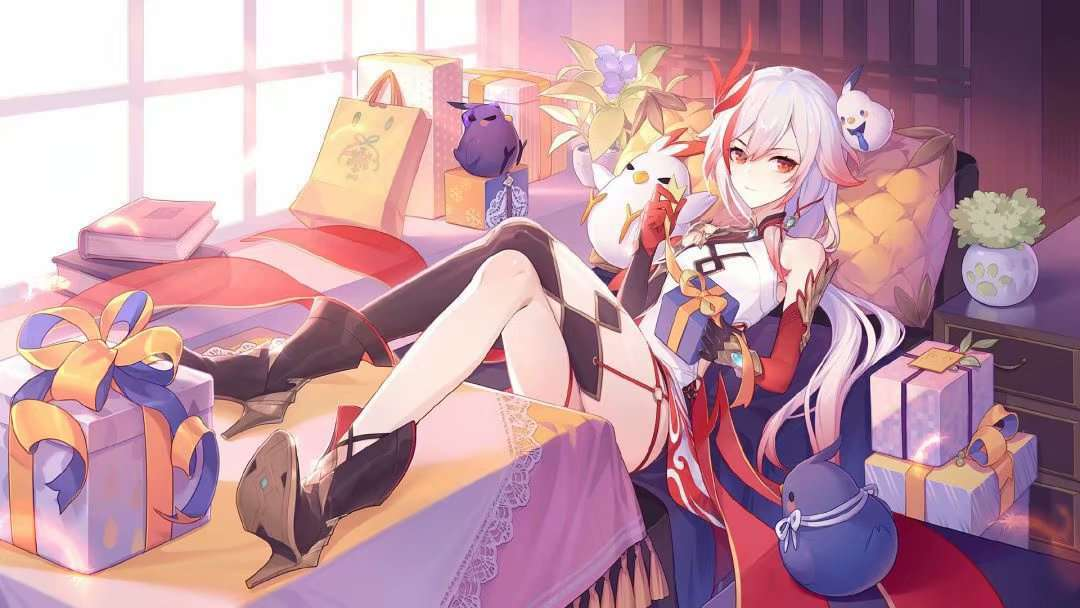
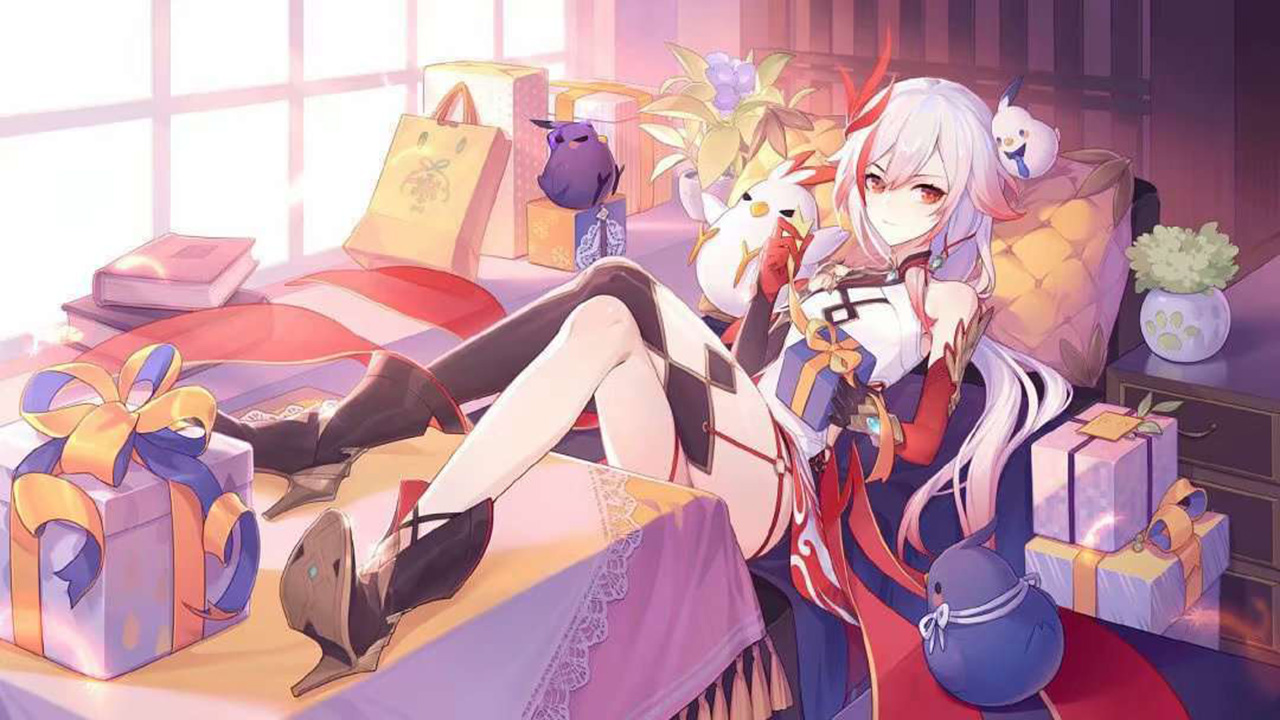
Site updated: 2020-04-21 07:34:56

diff --git a/archives/2020/04/index.html b/archives/2020/04/index.html
@@ -338,7 +338,7 @@
 
 <script>
     // 每天切换 banner 图.  Switch banner image every day.
-    $('.bg-cover').css('background-image', 'url(https://cdn.jsdelivr.net/qh/K-422/K-422.github.io/medias/banner/1.jpg)');
+    $('.bg-cover').css('background-image', 'url(https://cdn.jsdelivr.net/qh/K-422/K-422.github.io/medias/banner/2.jpg)');
 </script>
 
 
@@ -396,7 +396,7 @@
         },
         calendar: [{
             left: 'center',
-            range: ["2019-04-20", "2020-04-20"],
+            range: ["2019-04-21", "2020-04-21"],
             cellSize: [13, 13],
             splitLine: {
                 show: false
@@ -423,7 +423,7 @@
             type: 'heatmap',
             coordinateSystem: 'calendar',
             calendarIndex: 0,
-            data: [["2019-04-20", 0], ["2019-04-21", 0], ["2019-04-22", 0], ["2019-04-23", 0], ["2019-04-24", 0], ["2019-04-25", 0], ["2019-04-26", 0], ["2019-04-27", 0], ["2019-04-28", 0], ["2019-04-29", 0], ["2019-04-30", 0], ["2019-05-01", 0], ["2019-05-02", 0], ["2019-05-03", 0], ["2019-05-04", 0], ["2019-05-05", 0], ["2019-05-06", 0], ["2019-05-07", 0], ["2019-05-08", 0], ["2019-05-09", 0], ["2019-05-10", 0], ["2019-05-11", 0], ["2019-05-12", 0], ["2019-05-13", 0], ["2019-05-14", 0], ["2019-05-15", 0], ["2019-05-16", 0], ["2019-05-17", 0], ["2019-05-18", 0], ["2019-05-19", 0], ["2019-05-20", 0], ["2019-05-21", 0], ["2019-05-22", 0], ["2019-05-23", 0], ["2019-05-24", 0], ["2019-05-25", 0], ["2019-05-26", 0], ["2019-05-27", 0], ["2019-05-28", 0], ["2019-05-29", 0], ["2019-05-30", 0], ["2019-05-31", 0], ["2019-06-01", 0], ["2019-06-02", 0], ["2019-06-03", 0], ["2019-06-04", 0], ["2019-06-05", 0], ["2019-06-06", 0], ["2019-06-07", 0], ["2019-06-08", 0], ["2019-06-09", 0], ["2019-06-10", 0], ["2019-06-11", 0], ["2019-06-12", 0], ["2019-06-13", 0], ["2019-06-14", 0], ["2019-06-15", 0], ["2019-06-16", 0], ["2019-06-17", 0], ["2019-06-18", 0], ["2019-06-19", 0], ["2019-06-20", 0], ["2019-06-21", 0], ["2019-06-22", 0], ["2019-06-23", 0], ["2019-06-24", 0], ["2019-06-25", 0], ["2019-06-26", 0], ["2019-06-27", 0], ["2019-06-28", 0], ["2019-06-29", 0], ["2019-06-30", 0], ["2019-07-01", 0], ["2019-07-02", 0], ["2019-07-03", 0], ["2019-07-04", 0], ["2019-07-05", 0], ["2019-07-06", 0], ["2019-07-07", 0], ["2019-07-08", 0], ["2019-07-09", 0], ["2019-07-10", 0], ["2019-07-11", 0], ["2019-07-12", 0], ["2019-07-13", 0], ["2019-07-14", 0], ["2019-07-15", 0], ["2019-07-16", 0], ["2019-07-17", 0], ["2019-07-18", 0], ["2019-07-19", 0], ["2019-07-20", 0], ["2019-07-21", 0], ["2019-07-22", 0], ["2019-07-23", 0], ["2019-07-24", 0], ["2019-07-25", 0], ["2019-07-26", 0], ["2019-07-27", 0], ["2019-07-28", 0], ["2019-07-29", 0], ["2019-07-30", 0], ["2019-07-31", 0], ["2019-08-01", 0], ["2019-08-02", 0], ["2019-08-03", 0], ["2019-08-04", 0], ["2019-08-05", 0], ["2019-08-06", 0], ["2019-08-07", 0], ["2019-08-08", 0], ["2019-08-09", 0], ["2019-08-10", 0], ["2019-08-11", 0], ["2019-08-12", 0], ["2019-08-13", 0], ["2019-08-14", 0], ["2019-08-15", 0], ["2019-08-16", 0], ["2019-08-17", 0], ["2019-08-18", 0], ["2019-08-19", 0], ["2019-08-20", 0], ["2019-08-21", 0], ["2019-08-22", 0], ["2019-08-23", 0], ["2019-08-24", 0], ["2019-08-25", 0], ["2019-08-26", 0], ["2019-08-27", 0], ["2019-08-28", 0], ["2019-08-29", 0], ["2019-08-30", 0], ["2019-08-31", 0], ["2019-09-01", 0], ["2019-09-02", 0], ["2019-09-03", 0], ["2019-09-04", 0], ["2019-09-05", 0], ["2019-09-06", 0], ["2019-09-07", 0], ["2019-09-08", 0], ["2019-09-09", 0], ["2019-09-10", 0], ["2019-09-11", 0], ["2019-09-12", 0], ["2019-09-13", 0], ["2019-09-14", 0], ["2019-09-15", 0], ["2019-09-16", 0], ["2019-09-17", 0], ["2019-09-18", 0], ["2019-09-19", 0], ["2019-09-20", 0], ["2019-09-21", 0], ["2019-09-22", 0], ["2019-09-23", 0], ["2019-09-24", 0], ["2019-09-25", 0], ["2019-09-26", 0], ["2019-09-27", 0], ["2019-09-28", 0], ["2019-09-29", 0], ["2019-09-30", 0], ["2019-10-01", 0], ["2019-10-02", 0], ["2019-10-03", 0], ["2019-10-04", 0], ["2019-10-05", 0], ["2019-10-06", 0], ["2019-10-07", 0], ["2019-10-08", 0], ["2019-10-09", 0], ["2019-10-10", 0], ["2019-10-11", 0], ["2019-10-12", 0], ["2019-10-13", 0], ["2019-10-14", 0], ["2019-10-15", 0], ["2019-10-16", 0], ["2019-10-17", 0], ["2019-10-18", 0], ["2019-10-19", 0], ["2019-10-20", 0], ["2019-10-21", 0], ["2019-10-22", 0], ["2019-10-23", 0], ["2019-10-24", 0], ["2019-10-25", 0], ["2019-10-26", 0], ["2019-10-27", 0], ["2019-10-28", 0], ["2019-10-29", 0], ["2019-10-30", 0], ["2019-10-31", 0], ["2019-11-01", 0], ["2019-11-02", 0], ["2019-11-03", 0], ["2019-11-04", 0], ["2019-11-05", 0], ["2019-11-06", 0], ["2019-11-07", 0], ["2019-11-08", 0], ["2019-11-09", 0], ["2019-11-10", 0], ["2019-11-11", 0], ["2019-11-12", 0], ["2019-11-13", 0], ["2019-11-14", 0], ["2019-11-15", 0], ["2019-11-16", 0], ["2019-11-17", 0], ["2019-11-18", 0], ["2019-11-19", 0], ["2019-11-20", 0], ["2019-11-21", 0], ["2019-11-22", 0], ["2019-11-23", 0], ["2019-11-24", 0], ["2019-11-25", 0], ["2019-11-26", 0], ["2019-11-27", 0], ["2019-11-28", 0], ["2019-11-29", 0], ["2019-11-30", 0], ["2019-12-01", 0], ["2019-12-02", 0], ["2019-12-03", 0], ["2019-12-04", 0], ["2019-12-05", 0], ["2019-12-06", 0], ["2019-12-07", 0], ["2019-12-08", 0], ["2019-12-09", 0], ["2019-12-10", 0], ["2019-12-11", 0], ["2019-12-12", 0], ["2019-12-13", 0], ["2019-12-14", 0], ["2019-12-15", 0], ["2019-12-16", 0], ["2019-12-17", 0], ["2019-12-18", 0], ["2019-12-19", 0], ["2019-12-20", 0], ["2019-12-21", 0], ["2019-12-22", 0], ["2019-12-23", 0], ["2019-12-24", 0], ["2019-12-25", 0], ["2019-12-26", 0], ["2019-12-27", 0], ["2019-12-28", 0], ["2019-12-29", 0], ["2019-12-30", 0], ["2019-12-31", 0], ["2020-01-01", 0], ["2020-01-02", 0], ["2020-01-03", 0], ["2020-01-04", 0], ["2020-01-05", 0], ["2020-01-06", 0], ["2020-01-07", 0], ["2020-01-08", 0], ["2020-01-09", 0], ["2020-01-10", 0], ["2020-01-11", 0], ["2020-01-12", 0], ["2020-01-13", 0], ["2020-01-14", 0], ["2020-01-15", 0], ["2020-01-16", 0], ["2020-01-17", 0], ["2020-01-18", 0], ["2020-01-19", 0], ["2020-01-20", 0], ["2020-01-21", 0], ["2020-01-22", 0], ["2020-01-23", 0], ["2020-01-24", 0], ["2020-01-25", 0], ["2020-01-26", 0], ["2020-01-27", 0], ["2020-01-28", 0], ["2020-01-29", 0], ["2020-01-30", 0], ["2020-01-31", 0], ["2020-02-01", 0], ["2020-02-02", 0], ["2020-02-03", 0], ["2020-02-04", 0], ["2020-02-05", 0], ["2020-02-06", 0], ["2020-02-07", 0], ["2020-02-08", 0], ["2020-02-09", 0], ["2020-02-10", 0], ["2020-02-11", 0], ["2020-02-12", 0], ["2020-02-13", 0], ["2020-02-14", 0], ["2020-02-15", 0], ["2020-02-16", 0], ["2020-02-17", 0], ["2020-02-18", 0], ["2020-02-19", 0], ["2020-02-20", 0], ["2020-02-21", 0], ["2020-02-22", 0], ["2020-02-23", 0], ["2020-02-24", 0], ["2020-02-25", 0], ["2020-02-26", 0], ["2020-02-27", 0], ["2020-02-28", 0], ["2020-02-29", 0], ["2020-03-01", 0], ["2020-03-02", 0], ["2020-03-03", 0], ["2020-03-04", 0], ["2020-03-05", 0], ["2020-03-06", 0], ["2020-03-07", 0], ["2020-03-08", 0], ["2020-03-09", 0], ["2020-03-10", 0], ["2020-03-11", 0], ["2020-03-12", 0], ["2020-03-13", 0], ["2020-03-14", 0], ["2020-03-15", 0], ["2020-03-16", 0], ["2020-03-17", 0], ["2020-03-18", 0], ["2020-03-19", 0], ["2020-03-20", 0], ["2020-03-21", 0], ["2020-03-22", 0], ["2020-03-23", 0], ["2020-03-24", 0], ["2020-03-25", 0], ["2020-03-26", 0], ["2020-03-27", 0], ["2020-03-28", 0], ["2020-03-29", 0], ["2020-03-30", 0], ["2020-03-31", 0], ["2020-04-01", 0], ["2020-04-02", 0], ["2020-04-03", 0], ["2020-04-04", 0], ["2020-04-05", 0], ["2020-04-06", 0], ["2020-04-07", 0], ["2020-04-08", 0], ["2020-04-09", 0], ["2020-04-10", 0], ["2020-04-11", 0], ["2020-04-12", 0], ["2020-04-13", 0], ["2020-04-14", 0], ["2020-04-15", 0], ["2020-04-16", 0], ["2020-04-17", 0], ["2020-04-18", 0], ["2020-04-19", 0], ["2020-04-20", 1]]
+            data: [["2019-04-21", 0], ["2019-04-22", 0], ["2019-04-23", 0], ["2019-04-24", 0], ["2019-04-25", 0], ["2019-04-26", 0], ["2019-04-27", 0], ["2019-04-28", 0], ["2019-04-29", 0], ["2019-04-30", 0], ["2019-05-01", 0], ["2019-05-02", 0], ["2019-05-03", 0], ["2019-05-04", 0], ["2019-05-05", 0], ["2019-05-06", 0], ["2019-05-07", 0], ["2019-05-08", 0], ["2019-05-09", 0], ["2019-05-10", 0], ["2019-05-11", 0], ["2019-05-12", 0], ["2019-05-13", 0], ["2019-05-14", 0], ["2019-05-15", 0], ["2019-05-16", 0], ["2019-05-17", 0], ["2019-05-18", 0], ["2019-05-19", 0], ["2019-05-20", 0], ["2019-05-21", 0], ["2019-05-22", 0], ["2019-05-23", 0], ["2019-05-24", 0], ["2019-05-25", 0], ["2019-05-26", 0], ["2019-05-27", 0], ["2019-05-28", 0], ["2019-05-29", 0], ["2019-05-30", 0], ["2019-05-31", 0], ["2019-06-01", 0], ["2019-06-02", 0], ["2019-06-03", 0], ["2019-06-04", 0], ["2019-06-05", 0], ["2019-06-06", 0], ["2019-06-07", 0], ["2019-06-08", 0], ["2019-06-09", 0], ["2019-06-10", 0], ["2019-06-11", 0], ["2019-06-12", 0], ["2019-06-13", 0], ["2019-06-14", 0], ["2019-06-15", 0], ["2019-06-16", 0], ["2019-06-17", 0], ["2019-06-18", 0], ["2019-06-19", 0], ["2019-06-20", 0], ["2019-06-21", 0], ["2019-06-22", 0], ["2019-06-23", 0], ["2019-06-24", 0], ["2019-06-25", 0], ["2019-06-26", 0], ["2019-06-27", 0], ["2019-06-28", 0], ["2019-06-29", 0], ["2019-06-30", 0], ["2019-07-01", 0], ["2019-07-02", 0], ["2019-07-03", 0], ["2019-07-04", 0], ["2019-07-05", 0], ["2019-07-06", 0], ["2019-07-07", 0], ["2019-07-08", 0], ["2019-07-09", 0], ["2019-07-10", 0], ["2019-07-11", 0], ["2019-07-12", 0], ["2019-07-13", 0], ["2019-07-14", 0], ["2019-07-15", 0], ["2019-07-16", 0], ["2019-07-17", 0], ["2019-07-18", 0], ["2019-07-19", 0], ["2019-07-20", 0], ["2019-07-21", 0], ["2019-07-22", 0], ["2019-07-23", 0], ["2019-07-24", 0], ["2019-07-25", 0], ["2019-07-26", 0], ["2019-07-27", 0], ["2019-07-28", 0], ["2019-07-29", 0], ["2019-07-30", 0], ["2019-07-31", 0], ["2019-08-01", 0], ["2019-08-02", 0], ["2019-08-03", 0], ["2019-08-04", 0], ["2019-08-05", 0], ["2019-08-06", 0], ["2019-08-07", 0], ["2019-08-08", 0], ["2019-08-09", 0], ["2019-08-10", 0], ["2019-08-11", 0], ["2019-08-12", 0], ["2019-08-13", 0], ["2019-08-14", 0], ["2019-08-15", 0], ["2019-08-16", 0], ["2019-08-17", 0], ["2019-08-18", 0], ["2019-08-19", 0], ["2019-08-20", 0], ["2019-08-21", 0], ["2019-08-22", 0], ["2019-08-23", 0], ["2019-08-24", 0], ["2019-08-25", 0], ["2019-08-26", 0], ["2019-08-27", 0], ["2019-08-28", 0], ["2019-08-29", 0], ["2019-08-30", 0], ["2019-08-31", 0], ["2019-09-01", 0], ["2019-09-02", 0], ["2019-09-03", 0], ["2019-09-04", 0], ["2019-09-05", 0], ["2019-09-06", 0], ["2019-09-07", 0], ["2019-09-08", 0], ["2019-09-09", 0], ["2019-09-10", 0], ["2019-09-11", 0], ["2019-09-12", 0], ["2019-09-13", 0], ["2019-09-14", 0], ["2019-09-15", 0], ["2019-09-16", 0], ["2019-09-17", 0], ["2019-09-18", 0], ["2019-09-19", 0], ["2019-09-20", 0], ["2019-09-21", 0], ["2019-09-22", 0], ["2019-09-23", 0], ["2019-09-24", 0], ["2019-09-25", 0], ["2019-09-26", 0], ["2019-09-27", 0], ["2019-09-28", 0], ["2019-09-29", 0], ["2019-09-30", 0], ["2019-10-01", 0], ["2019-10-02", 0], ["2019-10-03", 0], ["2019-10-04", 0], ["2019-10-05", 0], ["2019-10-06", 0], ["2019-10-07", 0], ["2019-10-08", 0], ["2019-10-09", 0], ["2019-10-10", 0], ["2019-10-11", 0], ["2019-10-12", 0], ["2019-10-13", 0], ["2019-10-14", 0], ["2019-10-15", 0], ["2019-10-16", 0], ["2019-10-17", 0], ["2019-10-18", 0], ["2019-10-19", 0], ["2019-10-20", 0], ["2019-10-21", 0], ["2019-10-22", 0], ["2019-10-23", 0], ["2019-10-24", 0], ["2019-10-25", 0], ["2019-10-26", 0], ["2019-10-27", 0], ["2019-10-28", 0], ["2019-10-29", 0], ["2019-10-30", 0], ["2019-10-31", 0], ["2019-11-01", 0], ["2019-11-02", 0], ["2019-11-03", 0], ["2019-11-04", 0], ["2019-11-05", 0], ["2019-11-06", 0], ["2019-11-07", 0], ["2019-11-08", 0], ["2019-11-09", 0], ["2019-11-10", 0], ["2019-11-11", 0], ["2019-11-12", 0], ["2019-11-13", 0], ["2019-11-14", 0], ["2019-11-15", 0], ["2019-11-16", 0], ["2019-11-17", 0], ["2019-11-18", 0], ["2019-11-19", 0], ["2019-11-20", 0], ["2019-11-21", 0], ["2019-11-22", 0], ["2019-11-23", 0], ["2019-11-24", 0], ["2019-11-25", 0], ["2019-11-26", 0], ["2019-11-27", 0], ["2019-11-28", 0], ["2019-11-29", 0], ["2019-11-30", 0], ["2019-12-01", 0], ["2019-12-02", 0], ["2019-12-03", 0], ["2019-12-04", 0], ["2019-12-05", 0], ["2019-12-06", 0], ["2019-12-07", 0], ["2019-12-08", 0], ["2019-12-09", 0], ["2019-12-10", 0], ["2019-12-11", 0], ["2019-12-12", 0], ["2019-12-13", 0], ["2019-12-14", 0], ["2019-12-15", 0], ["2019-12-16", 0], ["2019-12-17", 0], ["2019-12-18", 0], ["2019-12-19", 0], ["2019-12-20", 0], ["2019-12-21", 0], ["2019-12-22", 0], ["2019-12-23", 0], ["2019-12-24", 0], ["2019-12-25", 0], ["2019-12-26", 0], ["2019-12-27", 0], ["2019-12-28", 0], ["2019-12-29", 0], ["2019-12-30", 0], ["2019-12-31", 0], ["2020-01-01", 0], ["2020-01-02", 0], ["2020-01-03", 0], ["2020-01-04", 0], ["2020-01-05", 0], ["2020-01-06", 0], ["2020-01-07", 0], ["2020-01-08", 0], ["2020-01-09", 0], ["2020-01-10", 0], ["2020-01-11", 0], ["2020-01-12", 0], ["2020-01-13", 0], ["2020-01-14", 0], ["2020-01-15", 0], ["2020-01-16", 0], ["2020-01-17", 0], ["2020-01-18", 0], ["2020-01-19", 0], ["2020-01-20", 0], ["2020-01-21", 0], ["2020-01-22", 0], ["2020-01-23", 0], ["2020-01-24", 0], ["2020-01-25", 0], ["2020-01-26", 0], ["2020-01-27", 0], ["2020-01-28", 0], ["2020-01-29", 0], ["2020-01-30", 0], ["2020-01-31", 0], ["2020-02-01", 0], ["2020-02-02", 0], ["2020-02-03", 0], ["2020-02-04", 0], ["2020-02-05", 0], ["2020-02-06", 0], ["2020-02-07", 0], ["2020-02-08", 0], ["2020-02-09", 0], ["2020-02-10", 0], ["2020-02-11", 0], ["2020-02-12", 0], ["2020-02-13", 0], ["2020-02-14", 0], ["2020-02-15", 0], ["2020-02-16", 0], ["2020-02-17", 0], ["2020-02-18", 0], ["2020-02-19", 0], ["2020-02-20", 0], ["2020-02-21", 0], ["2020-02-22", 0], ["2020-02-23", 0], ["2020-02-24", 0], ["2020-02-25", 0], ["2020-02-26", 0], ["2020-02-27", 0], ["2020-02-28", 0], ["2020-02-29", 0], ["2020-03-01", 0], ["2020-03-02", 0], ["2020-03-03", 0], ["2020-03-04", 0], ["2020-03-05", 0], ["2020-03-06", 0], ["2020-03-07", 0], ["2020-03-08", 0], ["2020-03-09", 0], ["2020-03-10", 0], ["2020-03-11", 0], ["2020-03-12", 0], ["2020-03-13", 0], ["2020-03-14", 0], ["2020-03-15", 0], ["2020-03-16", 0], ["2020-03-17", 0], ["2020-03-18", 0], ["2020-03-19", 0], ["2020-03-20", 0], ["2020-03-21", 0], ["2020-03-22", 0], ["2020-03-23", 0], ["2020-03-24", 0], ["2020-03-25", 0], ["2020-03-26", 0], ["2020-03-27", 0], ["2020-03-28", 0], ["2020-03-29", 0], ["2020-03-30", 0], ["2020-03-31", 0], ["2020-04-01", 0], ["2020-04-02", 0], ["2020-04-03", 0], ["2020-04-04", 0], ["2020-04-05", 0], ["2020-04-06", 0], ["2020-04-07", 0], ["2020-04-08", 0], ["2020-04-09", 0], ["2020-04-10", 0], ["2020-04-11", 0], ["2020-04-12", 0], ["2020-04-13", 0], ["2020-04-14", 0], ["2020-04-15", 0], ["2020-04-16", 0], ["2020-04-17", 0], ["2020-04-18", 0], ["2020-04-19", 0], ["2020-04-20", 1], ["2020-04-21", 0]]
         }]
 
     };

diff --git a/archives/2020/index.html b/archives/2020/index.html
@@ -338,7 +338,7 @@
 
 <script>
     // 每天切换 banner 图.  Switch banner image every day.
-    $('.bg-cover').css('background-image', 'url(https://cdn.jsdelivr.net/qh/K-422/K-422.github.io/medias/banner/1.jpg)');
+    $('.bg-cover').css('background-image', 'url(https://cdn.jsdelivr.net/qh/K-422/K-422.github.io/medias/banner/2.jpg)');
 </script>
 
 
@@ -396,7 +396,7 @@
         },
         calendar: [{
             left: 'center',
-            range: ["2019-04-20", "2020-04-20"],
+            range: ["2019-04-21", "2020-04-21"],
             cellSize: [13, 13],
             splitLine: {
                 show: false
@@ -423,7 +423,7 @@
             type: 'heatmap',
             coordinateSystem: 'calendar',
             calendarIndex: 0,
-            data: [["2019-04-20", 0], ["2019-04-21", 0], ["2019-04-22", 0], ["2019-04-23", 0], ["2019-04-24", 0], ["2019-04-25", 0], ["2019-04-26", 0], ["2019-04-27", 0], ["2019-04-28", 0], ["2019-04-29", 0], ["2019-04-30", 0], ["2019-05-01", 0], ["2019-05-02", 0], ["2019-05-03", 0], ["2019-05-04", 0], ["2019-05-05", 0], ["2019-05-06", 0], ["2019-05-07", 0], ["2019-05-08", 0], ["2019-05-09", 0], ["2019-05-10", 0], ["2019-05-11", 0], ["2019-05-12", 0], ["2019-05-13", 0], ["2019-05-14", 0], ["2019-05-15", 0], ["2019-05-16", 0], ["2019-05-17", 0], ["2019-05-18", 0], ["2019-05-19", 0], ["2019-05-20", 0], ["2019-05-21", 0], ["2019-05-22", 0], ["2019-05-23", 0], ["2019-05-24", 0], ["2019-05-25", 0], ["2019-05-26", 0], ["2019-05-27", 0], ["2019-05-28", 0], ["2019-05-29", 0], ["2019-05-30", 0], ["2019-05-31", 0], ["2019-06-01", 0], ["2019-06-02", 0], ["2019-06-03", 0], ["2019-06-04", 0], ["2019-06-05", 0], ["2019-06-06", 0], ["2019-06-07", 0], ["2019-06-08", 0], ["2019-06-09", 0], ["2019-06-10", 0], ["2019-06-11", 0], ["2019-06-12", 0], ["2019-06-13", 0], ["2019-06-14", 0], ["2019-06-15", 0], ["2019-06-16", 0], ["2019-06-17", 0], ["2019-06-18", 0], ["2019-06-19", 0], ["2019-06-20", 0], ["2019-06-21", 0], ["2019-06-22", 0], ["2019-06-23", 0], ["2019-06-24", 0], ["2019-06-25", 0], ["2019-06-26", 0], ["2019-06-27", 0], ["2019-06-28", 0], ["2019-06-29", 0], ["2019-06-30", 0], ["2019-07-01", 0], ["2019-07-02", 0], ["2019-07-03", 0], ["2019-07-04", 0], ["2019-07-05", 0], ["2019-07-06", 0], ["2019-07-07", 0], ["2019-07-08", 0], ["2019-07-09", 0], ["2019-07-10", 0], ["2019-07-11", 0], ["2019-07-12", 0], ["2019-07-13", 0], ["2019-07-14", 0], ["2019-07-15", 0], ["2019-07-16", 0], ["2019-07-17", 0], ["2019-07-18", 0], ["2019-07-19", 0], ["2019-07-20", 0], ["2019-07-21", 0], ["2019-07-22", 0], ["2019-07-23", 0], ["2019-07-24", 0], ["2019-07-25", 0], ["2019-07-26", 0], ["2019-07-27", 0], ["2019-07-28", 0], ["2019-07-29", 0], ["2019-07-30", 0], ["2019-07-31", 0], ["2019-08-01", 0], ["2019-08-02", 0], ["2019-08-03", 0], ["2019-08-04", 0], ["2019-08-05", 0], ["2019-08-06", 0], ["2019-08-07", 0], ["2019-08-08", 0], ["2019-08-09", 0], ["2019-08-10", 0], ["2019-08-11", 0], ["2019-08-12", 0], ["2019-08-13", 0], ["2019-08-14", 0], ["2019-08-15", 0], ["2019-08-16", 0], ["2019-08-17", 0], ["2019-08-18", 0], ["2019-08-19", 0], ["2019-08-20", 0], ["2019-08-21", 0], ["2019-08-22", 0], ["2019-08-23", 0], ["2019-08-24", 0], ["2019-08-25", 0], ["2019-08-26", 0], ["2019-08-27", 0], ["2019-08-28", 0], ["2019-08-29", 0], ["2019-08-30", 0], ["2019-08-31", 0], ["2019-09-01", 0], ["2019-09-02", 0], ["2019-09-03", 0], ["2019-09-04", 0], ["2019-09-05", 0], ["2019-09-06", 0], ["2019-09-07", 0], ["2019-09-08", 0], ["2019-09-09", 0], ["2019-09-10", 0], ["2019-09-11", 0], ["2019-09-12", 0], ["2019-09-13", 0], ["2019-09-14", 0], ["2019-09-15", 0], ["2019-09-16", 0], ["2019-09-17", 0], ["2019-09-18", 0], ["2019-09-19", 0], ["2019-09-20", 0], ["2019-09-21", 0], ["2019-09-22", 0], ["2019-09-23", 0], ["2019-09-24", 0], ["2019-09-25", 0], ["2019-09-26", 0], ["2019-09-27", 0], ["2019-09-28", 0], ["2019-09-29", 0], ["2019-09-30", 0], ["2019-10-01", 0], ["2019-10-02", 0], ["2019-10-03", 0], ["2019-10-04", 0], ["2019-10-05", 0], ["2019-10-06", 0], ["2019-10-07", 0], ["2019-10-08", 0], ["2019-10-09", 0], ["2019-10-10", 0], ["2019-10-11", 0], ["2019-10-12", 0], ["2019-10-13", 0], ["2019-10-14", 0], ["2019-10-15", 0], ["2019-10-16", 0], ["2019-10-17", 0], ["2019-10-18", 0], ["2019-10-19", 0], ["2019-10-20", 0], ["2019-10-21", 0], ["2019-10-22", 0], ["2019-10-23", 0], ["2019-10-24", 0], ["2019-10-25", 0], ["2019-10-26", 0], ["2019-10-27", 0], ["2019-10-28", 0], ["2019-10-29", 0], ["2019-10-30", 0], ["2019-10-31", 0], ["2019-11-01", 0], ["2019-11-02", 0], ["2019-11-03", 0], ["2019-11-04", 0], ["2019-11-05", 0], ["2019-11-06", 0], ["2019-11-07", 0], ["2019-11-08", 0], ["2019-11-09", 0], ["2019-11-10", 0], ["2019-11-11", 0], ["2019-11-12", 0], ["2019-11-13", 0], ["2019-11-14", 0], ["2019-11-15", 0], ["2019-11-16", 0], ["2019-11-17", 0], ["2019-11-18", 0], ["2019-11-19", 0], ["2019-11-20", 0], ["2019-11-21", 0], ["2019-11-22", 0], ["2019-11-23", 0], ["2019-11-24", 0], ["2019-11-25", 0], ["2019-11-26", 0], ["2019-11-27", 0], ["2019-11-28", 0], ["2019-11-29", 0], ["2019-11-30", 0], ["2019-12-01", 0], ["2019-12-02", 0], ["2019-12-03", 0], ["2019-12-04", 0], ["2019-12-05", 0], ["2019-12-06", 0], ["2019-12-07", 0], ["2019-12-08", 0], ["2019-12-09", 0], ["2019-12-10", 0], ["2019-12-11", 0], ["2019-12-12", 0], ["2019-12-13", 0], ["2019-12-14", 0], ["2019-12-15", 0], ["2019-12-16", 0], ["2019-12-17", 0], ["2019-12-18", 0], ["2019-12-19", 0], ["2019-12-20", 0], ["2019-12-21", 0], ["2019-12-22", 0], ["2019-12-23", 0], ["2019-12-24", 0], ["2019-12-25", 0], ["2019-12-26", 0], ["2019-12-27", 0], ["2019-12-28", 0], ["2019-12-29", 0], ["2019-12-30", 0], ["2019-12-31", 0], ["2020-01-01", 0], ["2020-01-02", 0], ["2020-01-03", 0], ["2020-01-04", 0], ["2020-01-05", 0], ["2020-01-06", 0], ["2020-01-07", 0], ["2020-01-08", 0], ["2020-01-09", 0], ["2020-01-10", 0], ["2020-01-11", 0], ["2020-01-12", 0], ["2020-01-13", 0], ["2020-01-14", 0], ["2020-01-15", 0], ["2020-01-16", 0], ["2020-01-17", 0], ["2020-01-18", 0], ["2020-01-19", 0], ["2020-01-20", 0], ["2020-01-21", 0], ["2020-01-22", 0], ["2020-01-23", 0], ["2020-01-24", 0], ["2020-01-25", 0], ["2020-01-26", 0], ["2020-01-27", 0], ["2020-01-28", 0], ["2020-01-29", 0], ["2020-01-30", 0], ["2020-01-31", 0], ["2020-02-01", 0], ["2020-02-02", 0], ["2020-02-03", 0], ["2020-02-04", 0], ["2020-02-05", 0], ["2020-02-06", 0], ["2020-02-07", 0], ["2020-02-08", 0], ["2020-02-09", 0], ["2020-02-10", 0], ["2020-02-11", 0], ["2020-02-12", 0], ["2020-02-13", 0], ["2020-02-14", 0], ["2020-02-15", 0], ["2020-02-16", 0], ["2020-02-17", 0], ["2020-02-18", 0], ["2020-02-19", 0], ["2020-02-20", 0], ["2020-02-21", 0], ["2020-02-22", 0], ["2020-02-23", 0], ["2020-02-24", 0], ["2020-02-25", 0], ["2020-02-26", 0], ["2020-02-27", 0], ["2020-02-28", 0], ["2020-02-29", 0], ["2020-03-01", 0], ["2020-03-02", 0], ["2020-03-03", 0], ["2020-03-04", 0], ["2020-03-05", 0], ["2020-03-06", 0], ["2020-03-07", 0], ["2020-03-08", 0], ["2020-03-09", 0], ["2020-03-10", 0], ["2020-03-11", 0], ["2020-03-12", 0], ["2020-03-13", 0], ["2020-03-14", 0], ["2020-03-15", 0], ["2020-03-16", 0], ["2020-03-17", 0], ["2020-03-18", 0], ["2020-03-19", 0], ["2020-03-20", 0], ["2020-03-21", 0], ["2020-03-22", 0], ["2020-03-23", 0], ["2020-03-24", 0], ["2020-03-25", 0], ["2020-03-26", 0], ["2020-03-27", 0], ["2020-03-28", 0], ["2020-03-29", 0], ["2020-03-30", 0], ["2020-03-31", 0], ["2020-04-01", 0], ["2020-04-02", 0], ["2020-04-03", 0], ["2020-04-04", 0], ["2020-04-05", 0], ["2020-04-06", 0], ["2020-04-07", 0], ["2020-04-08", 0], ["2020-04-09", 0], ["2020-04-10", 0], ["2020-04-11", 0], ["2020-04-12", 0], ["2020-04-13", 0], ["2020-04-14", 0], ["2020-04-15", 0], ["2020-04-16", 0], ["2020-04-17", 0], ["2020-04-18", 0], ["2020-04-19", 0], ["2020-04-20", 1]]
+            data: [["2019-04-21", 0], ["2019-04-22", 0], ["2019-04-23", 0], ["2019-04-24", 0], ["2019-04-25", 0], ["2019-04-26", 0], ["2019-04-27", 0], ["2019-04-28", 0], ["2019-04-29", 0], ["2019-04-30", 0], ["2019-05-01", 0], ["2019-05-02", 0], ["2019-05-03", 0], ["2019-05-04", 0], ["2019-05-05", 0], ["2019-05-06", 0], ["2019-05-07", 0], ["2019-05-08", 0], ["2019-05-09", 0], ["2019-05-10", 0], ["2019-05-11", 0], ["2019-05-12", 0], ["2019-05-13", 0], ["2019-05-14", 0], ["2019-05-15", 0], ["2019-05-16", 0], ["2019-05-17", 0], ["2019-05-18", 0], ["2019-05-19", 0], ["2019-05-20", 0], ["2019-05-21", 0], ["2019-05-22", 0], ["2019-05-23", 0], ["2019-05-24", 0], ["2019-05-25", 0], ["2019-05-26", 0], ["2019-05-27", 0], ["2019-05-28", 0], ["2019-05-29", 0], ["2019-05-30", 0], ["2019-05-31", 0], ["2019-06-01", 0], ["2019-06-02", 0], ["2019-06-03", 0], ["2019-06-04", 0], ["2019-06-05", 0], ["2019-06-06", 0], ["2019-06-07", 0], ["2019-06-08", 0], ["2019-06-09", 0], ["2019-06-10", 0], ["2019-06-11", 0], ["2019-06-12", 0], ["2019-06-13", 0], ["2019-06-14", 0], ["2019-06-15", 0], ["2019-06-16", 0], ["2019-06-17", 0], ["2019-06-18", 0], ["2019-06-19", 0], ["2019-06-20", 0], ["2019-06-21", 0], ["2019-06-22", 0], ["2019-06-23", 0], ["2019-06-24", 0], ["2019-06-25", 0], ["2019-06-26", 0], ["2019-06-27", 0], ["2019-06-28", 0], ["2019-06-29", 0], ["2019-06-30", 0], ["2019-07-01", 0], ["2019-07-02", 0], ["2019-07-03", 0], ["2019-07-04", 0], ["2019-07-05", 0], ["2019-07-06", 0], ["2019-07-07", 0], ["2019-07-08", 0], ["2019-07-09", 0], ["2019-07-10", 0], ["2019-07-11", 0], ["2019-07-12", 0], ["2019-07-13", 0], ["2019-07-14", 0], ["2019-07-15", 0], ["2019-07-16", 0], ["2019-07-17", 0], ["2019-07-18", 0], ["2019-07-19", 0], ["2019-07-20", 0], ["2019-07-21", 0], ["2019-07-22", 0], ["2019-07-23", 0], ["2019-07-24", 0], ["2019-07-25", 0], ["2019-07-26", 0], ["2019-07-27", 0], ["2019-07-28", 0], ["2019-07-29", 0], ["2019-07-30", 0], ["2019-07-31", 0], ["2019-08-01", 0], ["2019-08-02", 0], ["2019-08-03", 0], ["2019-08-04", 0], ["2019-08-05", 0], ["2019-08-06", 0], ["2019-08-07", 0], ["2019-08-08", 0], ["2019-08-09", 0], ["2019-08-10", 0], ["2019-08-11", 0], ["2019-08-12", 0], ["2019-08-13", 0], ["2019-08-14", 0], ["2019-08-15", 0], ["2019-08-16", 0], ["2019-08-17", 0], ["2019-08-18", 0], ["2019-08-19", 0], ["2019-08-20", 0], ["2019-08-21", 0], ["2019-08-22", 0], ["2019-08-23", 0], ["2019-08-24", 0], ["2019-08-25", 0], ["2019-08-26", 0], ["2019-08-27", 0], ["2019-08-28", 0], ["2019-08-29", 0], ["2019-08-30", 0], ["2019-08-31", 0], ["2019-09-01", 0], ["2019-09-02", 0], ["2019-09-03", 0], ["2019-09-04", 0], ["2019-09-05", 0], ["2019-09-06", 0], ["2019-09-07", 0], ["2019-09-08", 0], ["2019-09-09", 0], ["2019-09-10", 0], ["2019-09-11", 0], ["2019-09-12", 0], ["2019-09-13", 0], ["2019-09-14", 0], ["2019-09-15", 0], ["2019-09-16", 0], ["2019-09-17", 0], ["2019-09-18", 0], ["2019-09-19", 0], ["2019-09-20", 0], ["2019-09-21", 0], ["2019-09-22", 0], ["2019-09-23", 0], ["2019-09-24", 0], ["2019-09-25", 0], ["2019-09-26", 0], ["2019-09-27", 0], ["2019-09-28", 0], ["2019-09-29", 0], ["2019-09-30", 0], ["2019-10-01", 0], ["2019-10-02", 0], ["2019-10-03", 0], ["2019-10-04", 0], ["2019-10-05", 0], ["2019-10-06", 0], ["2019-10-07", 0], ["2019-10-08", 0], ["2019-10-09", 0], ["2019-10-10", 0], ["2019-10-11", 0], ["2019-10-12", 0], ["2019-10-13", 0], ["2019-10-14", 0], ["2019-10-15", 0], ["2019-10-16", 0], ["2019-10-17", 0], ["2019-10-18", 0], ["2019-10-19", 0], ["2019-10-20", 0], ["2019-10-21", 0], ["2019-10-22", 0], ["2019-10-23", 0], ["2019-10-24", 0], ["2019-10-25", 0], ["2019-10-26", 0], ["2019-10-27", 0], ["2019-10-28", 0], ["2019-10-29", 0], ["2019-10-30", 0], ["2019-10-31", 0], ["2019-11-01", 0], ["2019-11-02", 0], ["2019-11-03", 0], ["2019-11-04", 0], ["2019-11-05", 0], ["2019-11-06", 0], ["2019-11-07", 0], ["2019-11-08", 0], ["2019-11-09", 0], ["2019-11-10", 0], ["2019-11-11", 0], ["2019-11-12", 0], ["2019-11-13", 0], ["2019-11-14", 0], ["2019-11-15", 0], ["2019-11-16", 0], ["2019-11-17", 0], ["2019-11-18", 0], ["2019-11-19", 0], ["2019-11-20", 0], ["2019-11-21", 0], ["2019-11-22", 0], ["2019-11-23", 0], ["2019-11-24", 0], ["2019-11-25", 0], ["2019-11-26", 0], ["2019-11-27", 0], ["2019-11-28", 0], ["2019-11-29", 0], ["2019-11-30", 0], ["2019-12-01", 0], ["2019-12-02", 0], ["2019-12-03", 0], ["2019-12-04", 0], ["2019-12-05", 0], ["2019-12-06", 0], ["2019-12-07", 0], ["2019-12-08", 0], ["2019-12-09", 0], ["2019-12-10", 0], ["2019-12-11", 0], ["2019-12-12", 0], ["2019-12-13", 0], ["2019-12-14", 0], ["2019-12-15", 0], ["2019-12-16", 0], ["2019-12-17", 0], ["2019-12-18", 0], ["2019-12-19", 0], ["2019-12-20", 0], ["2019-12-21", 0], ["2019-12-22", 0], ["2019-12-23", 0], ["2019-12-24", 0], ["2019-12-25", 0], ["2019-12-26", 0], ["2019-12-27", 0], ["2019-12-28", 0], ["2019-12-29", 0], ["2019-12-30", 0], ["2019-12-31", 0], ["2020-01-01", 0], ["2020-01-02", 0], ["2020-01-03", 0], ["2020-01-04", 0], ["2020-01-05", 0], ["2020-01-06", 0], ["2020-01-07", 0], ["2020-01-08", 0], ["2020-01-09", 0], ["2020-01-10", 0], ["2020-01-11", 0], ["2020-01-12", 0], ["2020-01-13", 0], ["2020-01-14", 0], ["2020-01-15", 0], ["2020-01-16", 0], ["2020-01-17", 0], ["2020-01-18", 0], ["2020-01-19", 0], ["2020-01-20", 0], ["2020-01-21", 0], ["2020-01-22", 0], ["2020-01-23", 0], ["2020-01-24", 0], ["2020-01-25", 0], ["2020-01-26", 0], ["2020-01-27", 0], ["2020-01-28", 0], ["2020-01-29", 0], ["2020-01-30", 0], ["2020-01-31", 0], ["2020-02-01", 0], ["2020-02-02", 0], ["2020-02-03", 0], ["2020-02-04", 0], ["2020-02-05", 0], ["2020-02-06", 0], ["2020-02-07", 0], ["2020-02-08", 0], ["2020-02-09", 0], ["2020-02-10", 0], ["2020-02-11", 0], ["2020-02-12", 0], ["2020-02-13", 0], ["2020-02-14", 0], ["2020-02-15", 0], ["2020-02-16", 0], ["2020-02-17", 0], ["2020-02-18", 0], ["2020-02-19", 0], ["2020-02-20", 0], ["2020-02-21", 0], ["2020-02-22", 0], ["2020-02-23", 0], ["2020-02-24", 0], ["2020-02-25", 0], ["2020-02-26", 0], ["2020-02-27", 0], ["2020-02-28", 0], ["2020-02-29", 0], ["2020-03-01", 0], ["2020-03-02", 0], ["2020-03-03", 0], ["2020-03-04", 0], ["2020-03-05", 0], ["2020-03-06", 0], ["2020-03-07", 0], ["2020-03-08", 0], ["2020-03-09", 0], ["2020-03-10", 0], ["2020-03-11", 0], ["2020-03-12", 0], ["2020-03-13", 0], ["2020-03-14", 0], ["2020-03-15", 0], ["2020-03-16", 0], ["2020-03-17", 0], ["2020-03-18", 0], ["2020-03-19", 0], ["2020-03-20", 0], ["2020-03-21", 0], ["2020-03-22", 0], ["2020-03-23", 0], ["2020-03-24", 0], ["2020-03-25", 0], ["2020-03-26", 0], ["2020-03-27", 0], ["2020-03-28", 0], ["2020-03-29", 0], ["2020-03-30", 0], ["2020-03-31", 0], ["2020-04-01", 0], ["2020-04-02", 0], ["2020-04-03", 0], ["2020-04-04", 0], ["2020-04-05", 0], ["2020-04-06", 0], ["2020-04-07", 0], ["2020-04-08", 0], ["2020-04-09", 0], ["2020-04-10", 0], ["2020-04-11", 0], ["2020-04-12", 0], ["2020-04-13", 0], ["2020-04-14", 0], ["2020-04-15", 0], ["2020-04-16", 0], ["2020-04-17", 0], ["2020-04-18", 0], ["2020-04-19", 0], ["2020-04-20", 1], ["2020-04-21", 0]]
         }]
 
     };

diff --git a/archives/index.html b/archives/index.html
@@ -338,7 +338,7 @@
 
 <script>
     // 每天切换 banner 图.  Switch banner image every day.
-    $('.bg-cover').css('background-image', 'url(https://cdn.jsdelivr.net/qh/K-422/K-422.github.io/medias/banner/1.jpg)');
+    $('.bg-cover').css('background-image', 'url(https://cdn.jsdelivr.net/qh/K-422/K-422.github.io/medias/banner/2.jpg)');
 </script>
 
 
@@ -396,7 +396,7 @@
         },
         calendar: [{
             left: 'center',
-            range: ["2019-04-20", "2020-04-20"],
+            range: ["2019-04-21", "2020-04-21"],
             cellSize: [13, 13],
             splitLine: {
                 show: false
@@ -423,7 +423,7 @@
             type: 'heatmap',
             coordinateSystem: 'calendar',
             calendarIndex: 0,
-            data: [["2019-04-20", 0], ["2019-04-21", 0], ["2019-04-22", 0], ["2019-04-23", 0], ["2019-04-24", 0], ["2019-04-25", 0], ["2019-04-26", 0], ["2019-04-27", 0], ["2019-04-28", 0], ["2019-04-29", 0], ["2019-04-30", 0], ["2019-05-01", 0], ["2019-05-02", 0], ["2019-05-03", 0], ["2019-05-04", 0], ["2019-05-05", 0], ["2019-05-06", 0], ["2019-05-07", 0], ["2019-05-08", 0], ["2019-05-09", 0], ["2019-05-10", 0], ["2019-05-11", 0], ["2019-05-12", 0], ["2019-05-13", 0], ["2019-05-14", 0], ["2019-05-15", 0], ["2019-05-16", 0], ["2019-05-17", 0], ["2019-05-18", 0], ["2019-05-19", 0], ["2019-05-20", 0], ["2019-05-21", 0], ["2019-05-22", 0], ["2019-05-23", 0], ["2019-05-24", 0], ["2019-05-25", 0], ["2019-05-26", 0], ["2019-05-27", 0], ["2019-05-28", 0], ["2019-05-29", 0], ["2019-05-30", 0], ["2019-05-31", 0], ["2019-06-01", 0], ["2019-06-02", 0], ["2019-06-03", 0], ["2019-06-04", 0], ["2019-06-05", 0], ["2019-06-06", 0], ["2019-06-07", 0], ["2019-06-08", 0], ["2019-06-09", 0], ["2019-06-10", 0], ["2019-06-11", 0], ["2019-06-12", 0], ["2019-06-13", 0], ["2019-06-14", 0], ["2019-06-15", 0], ["2019-06-16", 0], ["2019-06-17", 0], ["2019-06-18", 0], ["2019-06-19", 0], ["2019-06-20", 0], ["2019-06-21", 0], ["2019-06-22", 0], ["2019-06-23", 0], ["2019-06-24", 0], ["2019-06-25", 0], ["2019-06-26", 0], ["2019-06-27", 0], ["2019-06-28", 0], ["2019-06-29", 0], ["2019-06-30", 0], ["2019-07-01", 0], ["2019-07-02", 0], ["2019-07-03", 0], ["2019-07-04", 0], ["2019-07-05", 0], ["2019-07-06", 0], ["2019-07-07", 0], ["2019-07-08", 0], ["2019-07-09", 0], ["2019-07-10", 0], ["2019-07-11", 0], ["2019-07-12", 0], ["2019-07-13", 0], ["2019-07-14", 0], ["2019-07-15", 0], ["2019-07-16", 0], ["2019-07-17", 0], ["2019-07-18", 0], ["2019-07-19", 0], ["2019-07-20", 0], ["2019-07-21", 0], ["2019-07-22", 0], ["2019-07-23", 0], ["2019-07-24", 0], ["2019-07-25", 0], ["2019-07-26", 0], ["2019-07-27", 0], ["2019-07-28", 0], ["2019-07-29", 0], ["2019-07-30", 0], ["2019-07-31", 0], ["2019-08-01", 0], ["2019-08-02", 0], ["2019-08-03", 0], ["2019-08-04", 0], ["2019-08-05", 0], ["2019-08-06", 0], ["2019-08-07", 0], ["2019-08-08", 0], ["2019-08-09", 0], ["2019-08-10", 0], ["2019-08-11", 0], ["2019-08-12", 0], ["2019-08-13", 0], ["2019-08-14", 0], ["2019-08-15", 0], ["2019-08-16", 0], ["2019-08-17", 0], ["2019-08-18", 0], ["2019-08-19", 0], ["2019-08-20", 0], ["2019-08-21", 0], ["2019-08-22", 0], ["2019-08-23", 0], ["2019-08-24", 0], ["2019-08-25", 0], ["2019-08-26", 0], ["2019-08-27", 0], ["2019-08-28", 0], ["2019-08-29", 0], ["2019-08-30", 0], ["2019-08-31", 0], ["2019-09-01", 0], ["2019-09-02", 0], ["2019-09-03", 0], ["2019-09-04", 0], ["2019-09-05", 0], ["2019-09-06", 0], ["2019-09-07", 0], ["2019-09-08", 0], ["2019-09-09", 0], ["2019-09-10", 0], ["2019-09-11", 0], ["2019-09-12", 0], ["2019-09-13", 0], ["2019-09-14", 0], ["2019-09-15", 0], ["2019-09-16", 0], ["2019-09-17", 0], ["2019-09-18", 0], ["2019-09-19", 0], ["2019-09-20", 0], ["2019-09-21", 0], ["2019-09-22", 0], ["2019-09-23", 0], ["2019-09-24", 0], ["2019-09-25", 0], ["2019-09-26", 0], ["2019-09-27", 0], ["2019-09-28", 0], ["2019-09-29", 0], ["2019-09-30", 0], ["2019-10-01", 0], ["2019-10-02", 0], ["2019-10-03", 0], ["2019-10-04", 0], ["2019-10-05", 0], ["2019-10-06", 0], ["2019-10-07", 0], ["2019-10-08", 0], ["2019-10-09", 0], ["2019-10-10", 0], ["2019-10-11", 0], ["2019-10-12", 0], ["2019-10-13", 0], ["2019-10-14", 0], ["2019-10-15", 0], ["2019-10-16", 0], ["2019-10-17", 0], ["2019-10-18", 0], ["2019-10-19", 0], ["2019-10-20", 0], ["2019-10-21", 0], ["2019-10-22", 0], ["2019-10-23", 0], ["2019-10-24", 0], ["2019-10-25", 0], ["2019-10-26", 0], ["2019-10-27", 0], ["2019-10-28", 0], ["2019-10-29", 0], ["2019-10-30", 0], ["2019-10-31", 0], ["2019-11-01", 0], ["2019-11-02", 0], ["2019-11-03", 0], ["2019-11-04", 0], ["2019-11-05", 0], ["2019-11-06", 0], ["2019-11-07", 0], ["2019-11-08", 0], ["2019-11-09", 0], ["2019-11-10", 0], ["2019-11-11", 0], ["2019-11-12", 0], ["2019-11-13", 0], ["2019-11-14", 0], ["2019-11-15", 0], ["2019-11-16", 0], ["2019-11-17", 0], ["2019-11-18", 0], ["2019-11-19", 0], ["2019-11-20", 0], ["2019-11-21", 0], ["2019-11-22", 0], ["2019-11-23", 0], ["2019-11-24", 0], ["2019-11-25", 0], ["2019-11-26", 0], ["2019-11-27", 0], ["2019-11-28", 0], ["2019-11-29", 0], ["2019-11-30", 0], ["2019-12-01", 0], ["2019-12-02", 0], ["2019-12-03", 0], ["2019-12-04", 0], ["2019-12-05", 0], ["2019-12-06", 0], ["2019-12-07", 0], ["2019-12-08", 0], ["2019-12-09", 0], ["2019-12-10", 0], ["2019-12-11", 0], ["2019-12-12", 0], ["2019-12-13", 0], ["2019-12-14", 0], ["2019-12-15", 0], ["2019-12-16", 0], ["2019-12-17", 0], ["2019-12-18", 0], ["2019-12-19", 0], ["2019-12-20", 0], ["2019-12-21", 0], ["2019-12-22", 0], ["2019-12-23", 0], ["2019-12-24", 0], ["2019-12-25", 0], ["2019-12-26", 0], ["2019-12-27", 0], ["2019-12-28", 0], ["2019-12-29", 0], ["2019-12-30", 0], ["2019-12-31", 0], ["2020-01-01", 0], ["2020-01-02", 0], ["2020-01-03", 0], ["2020-01-04", 0], ["2020-01-05", 0], ["2020-01-06", 0], ["2020-01-07", 0], ["2020-01-08", 0], ["2020-01-09", 0], ["2020-01-10", 0], ["2020-01-11", 0], ["2020-01-12", 0], ["2020-01-13", 0], ["2020-01-14", 0], ["2020-01-15", 0], ["2020-01-16", 0], ["2020-01-17", 0], ["2020-01-18", 0], ["2020-01-19", 0], ["2020-01-20", 0], ["2020-01-21", 0], ["2020-01-22", 0], ["2020-01-23", 0], ["2020-01-24", 0], ["2020-01-25", 0], ["2020-01-26", 0], ["2020-01-27", 0], ["2020-01-28", 0], ["2020-01-29", 0], ["2020-01-30", 0], ["2020-01-31", 0], ["2020-02-01", 0], ["2020-02-02", 0], ["2020-02-03", 0], ["2020-02-04", 0], ["2020-02-05", 0], ["2020-02-06", 0], ["2020-02-07", 0], ["2020-02-08", 0], ["2020-02-09", 0], ["2020-02-10", 0], ["2020-02-11", 0], ["2020-02-12", 0], ["2020-02-13", 0], ["2020-02-14", 0], ["2020-02-15", 0], ["2020-02-16", 0], ["2020-02-17", 0], ["2020-02-18", 0], ["2020-02-19", 0], ["2020-02-20", 0], ["2020-02-21", 0], ["2020-02-22", 0], ["2020-02-23", 0], ["2020-02-24", 0], ["2020-02-25", 0], ["2020-02-26", 0], ["2020-02-27", 0], ["2020-02-28", 0], ["2020-02-29", 0], ["2020-03-01", 0], ["2020-03-02", 0], ["2020-03-03", 0], ["2020-03-04", 0], ["2020-03-05", 0], ["2020-03-06", 0], ["2020-03-07", 0], ["2020-03-08", 0], ["2020-03-09", 0], ["2020-03-10", 0], ["2020-03-11", 0], ["2020-03-12", 0], ["2020-03-13", 0], ["2020-03-14", 0], ["2020-03-15", 0], ["2020-03-16", 0], ["2020-03-17", 0], ["2020-03-18", 0], ["2020-03-19", 0], ["2020-03-20", 0], ["2020-03-21", 0], ["2020-03-22", 0], ["2020-03-23", 0], ["2020-03-24", 0], ["2020-03-25", 0], ["2020-03-26", 0], ["2020-03-27", 0], ["2020-03-28", 0], ["2020-03-29", 0], ["2020-03-30", 0], ["2020-03-31", 0], ["2020-04-01", 0], ["2020-04-02", 0], ["2020-04-03", 0], ["2020-04-04", 0], ["2020-04-05", 0], ["2020-04-06", 0], ["2020-04-07", 0], ["2020-04-08", 0], ["2020-04-09", 0], ["2020-04-10", 0], ["2020-04-11", 0], ["2020-04-12", 0], ["2020-04-13", 0], ["2020-04-14", 0], ["2020-04-15", 0], ["2020-04-16", 0], ["2020-04-17", 0], ["2020-04-18", 0], ["2020-04-19", 0], ["2020-04-20", 1]]
+            data: [["2019-04-21", 0], ["2019-04-22", 0], ["2019-04-23", 0], ["2019-04-24", 0], ["2019-04-25", 0], ["2019-04-26", 0], ["2019-04-27", 0], ["2019-04-28", 0], ["2019-04-29", 0], ["2019-04-30", 0], ["2019-05-01", 0], ["2019-05-02", 0], ["2019-05-03", 0], ["2019-05-04", 0], ["2019-05-05", 0], ["2019-05-06", 0], ["2019-05-07", 0], ["2019-05-08", 0], ["2019-05-09", 0], ["2019-05-10", 0], ["2019-05-11", 0], ["2019-05-12", 0], ["2019-05-13", 0], ["2019-05-14", 0], ["2019-05-15", 0], ["2019-05-16", 0], ["2019-05-17", 0], ["2019-05-18", 0], ["2019-05-19", 0], ["2019-05-20", 0], ["2019-05-21", 0], ["2019-05-22", 0], ["2019-05-23", 0], ["2019-05-24", 0], ["2019-05-25", 0], ["2019-05-26", 0], ["2019-05-27", 0], ["2019-05-28", 0], ["2019-05-29", 0], ["2019-05-30", 0], ["2019-05-31", 0], ["2019-06-01", 0], ["2019-06-02", 0], ["2019-06-03", 0], ["2019-06-04", 0], ["2019-06-05", 0], ["2019-06-06", 0], ["2019-06-07", 0], ["2019-06-08", 0], ["2019-06-09", 0], ["2019-06-10", 0], ["2019-06-11", 0], ["2019-06-12", 0], ["2019-06-13", 0], ["2019-06-14", 0], ["2019-06-15", 0], ["2019-06-16", 0], ["2019-06-17", 0], ["2019-06-18", 0], ["2019-06-19", 0], ["2019-06-20", 0], ["2019-06-21", 0], ["2019-06-22", 0], ["2019-06-23", 0], ["2019-06-24", 0], ["2019-06-25", 0], ["2019-06-26", 0], ["2019-06-27", 0], ["2019-06-28", 0], ["2019-06-29", 0], ["2019-06-30", 0], ["2019-07-01", 0], ["2019-07-02", 0], ["2019-07-03", 0], ["2019-07-04", 0], ["2019-07-05", 0], ["2019-07-06", 0], ["2019-07-07", 0], ["2019-07-08", 0], ["2019-07-09", 0], ["2019-07-10", 0], ["2019-07-11", 0], ["2019-07-12", 0], ["2019-07-13", 0], ["2019-07-14", 0], ["2019-07-15", 0], ["2019-07-16", 0], ["2019-07-17", 0], ["2019-07-18", 0], ["2019-07-19", 0], ["2019-07-20", 0], ["2019-07-21", 0], ["2019-07-22", 0], ["2019-07-23", 0], ["2019-07-24", 0], ["2019-07-25", 0], ["2019-07-26", 0], ["2019-07-27", 0], ["2019-07-28", 0], ["2019-07-29", 0], ["2019-07-30", 0], ["2019-07-31", 0], ["2019-08-01", 0], ["2019-08-02", 0], ["2019-08-03", 0], ["2019-08-04", 0], ["2019-08-05", 0], ["2019-08-06", 0], ["2019-08-07", 0], ["2019-08-08", 0], ["2019-08-09", 0], ["2019-08-10", 0], ["2019-08-11", 0], ["2019-08-12", 0], ["2019-08-13", 0], ["2019-08-14", 0], ["2019-08-15", 0], ["2019-08-16", 0], ["2019-08-17", 0], ["2019-08-18", 0], ["2019-08-19", 0], ["2019-08-20", 0], ["2019-08-21", 0], ["2019-08-22", 0], ["2019-08-23", 0], ["2019-08-24", 0], ["2019-08-25", 0], ["2019-08-26", 0], ["2019-08-27", 0], ["2019-08-28", 0], ["2019-08-29", 0], ["2019-08-30", 0], ["2019-08-31", 0], ["2019-09-01", 0], ["2019-09-02", 0], ["2019-09-03", 0], ["2019-09-04", 0], ["2019-09-05", 0], ["2019-09-06", 0], ["2019-09-07", 0], ["2019-09-08", 0], ["2019-09-09", 0], ["2019-09-10", 0], ["2019-09-11", 0], ["2019-09-12", 0], ["2019-09-13", 0], ["2019-09-14", 0], ["2019-09-15", 0], ["2019-09-16", 0], ["2019-09-17", 0], ["2019-09-18", 0], ["2019-09-19", 0], ["2019-09-20", 0], ["2019-09-21", 0], ["2019-09-22", 0], ["2019-09-23", 0], ["2019-09-24", 0], ["2019-09-25", 0], ["2019-09-26", 0], ["2019-09-27", 0], ["2019-09-28", 0], ["2019-09-29", 0], ["2019-09-30", 0], ["2019-10-01", 0], ["2019-10-02", 0], ["2019-10-03", 0], ["2019-10-04", 0], ["2019-10-05", 0], ["2019-10-06", 0], ["2019-10-07", 0], ["2019-10-08", 0], ["2019-10-09", 0], ["2019-10-10", 0], ["2019-10-11", 0], ["2019-10-12", 0], ["2019-10-13", 0], ["2019-10-14", 0], ["2019-10-15", 0], ["2019-10-16", 0], ["2019-10-17", 0], ["2019-10-18", 0], ["2019-10-19", 0], ["2019-10-20", 0], ["2019-10-21", 0], ["2019-10-22", 0], ["2019-10-23", 0], ["2019-10-24", 0], ["2019-10-25", 0], ["2019-10-26", 0], ["2019-10-27", 0], ["2019-10-28", 0], ["2019-10-29", 0], ["2019-10-30", 0], ["2019-10-31", 0], ["2019-11-01", 0], ["2019-11-02", 0], ["2019-11-03", 0], ["2019-11-04", 0], ["2019-11-05", 0], ["2019-11-06", 0], ["2019-11-07", 0], ["2019-11-08", 0], ["2019-11-09", 0], ["2019-11-10", 0], ["2019-11-11", 0], ["2019-11-12", 0], ["2019-11-13", 0], ["2019-11-14", 0], ["2019-11-15", 0], ["2019-11-16", 0], ["2019-11-17", 0], ["2019-11-18", 0], ["2019-11-19", 0], ["2019-11-20", 0], ["2019-11-21", 0], ["2019-11-22", 0], ["2019-11-23", 0], ["2019-11-24", 0], ["2019-11-25", 0], ["2019-11-26", 0], ["2019-11-27", 0], ["2019-11-28", 0], ["2019-11-29", 0], ["2019-11-30", 0], ["2019-12-01", 0], ["2019-12-02", 0], ["2019-12-03", 0], ["2019-12-04", 0], ["2019-12-05", 0], ["2019-12-06", 0], ["2019-12-07", 0], ["2019-12-08", 0], ["2019-12-09", 0], ["2019-12-10", 0], ["2019-12-11", 0], ["2019-12-12", 0], ["2019-12-13", 0], ["2019-12-14", 0], ["2019-12-15", 0], ["2019-12-16", 0], ["2019-12-17", 0], ["2019-12-18", 0], ["2019-12-19", 0], ["2019-12-20", 0], ["2019-12-21", 0], ["2019-12-22", 0], ["2019-12-23", 0], ["2019-12-24", 0], ["2019-12-25", 0], ["2019-12-26", 0], ["2019-12-27", 0], ["2019-12-28", 0], ["2019-12-29", 0], ["2019-12-30", 0], ["2019-12-31", 0], ["2020-01-01", 0], ["2020-01-02", 0], ["2020-01-03", 0], ["2020-01-04", 0], ["2020-01-05", 0], ["2020-01-06", 0], ["2020-01-07", 0], ["2020-01-08", 0], ["2020-01-09", 0], ["2020-01-10", 0], ["2020-01-11", 0], ["2020-01-12", 0], ["2020-01-13", 0], ["2020-01-14", 0], ["2020-01-15", 0], ["2020-01-16", 0], ["2020-01-17", 0], ["2020-01-18", 0], ["2020-01-19", 0], ["2020-01-20", 0], ["2020-01-21", 0], ["2020-01-22", 0], ["2020-01-23", 0], ["2020-01-24", 0], ["2020-01-25", 0], ["2020-01-26", 0], ["2020-01-27", 0], ["2020-01-28", 0], ["2020-01-29", 0], ["2020-01-30", 0], ["2020-01-31", 0], ["2020-02-01", 0], ["2020-02-02", 0], ["2020-02-03", 0], ["2020-02-04", 0], ["2020-02-05", 0], ["2020-02-06", 0], ["2020-02-07", 0], ["2020-02-08", 0], ["2020-02-09", 0], ["2020-02-10", 0], ["2020-02-11", 0], ["2020-02-12", 0], ["2020-02-13", 0], ["2020-02-14", 0], ["2020-02-15", 0], ["2020-02-16", 0], ["2020-02-17", 0], ["2020-02-18", 0], ["2020-02-19", 0], ["2020-02-20", 0], ["2020-02-21", 0], ["2020-02-22", 0], ["2020-02-23", 0], ["2020-02-24", 0], ["2020-02-25", 0], ["2020-02-26", 0], ["2020-02-27", 0], ["2020-02-28", 0], ["2020-02-29", 0], ["2020-03-01", 0], ["2020-03-02", 0], ["2020-03-03", 0], ["2020-03-04", 0], ["2020-03-05", 0], ["2020-03-06", 0], ["2020-03-07", 0], ["2020-03-08", 0], ["2020-03-09", 0], ["2020-03-10", 0], ["2020-03-11", 0], ["2020-03-12", 0], ["2020-03-13", 0], ["2020-03-14", 0], ["2020-03-15", 0], ["2020-03-16", 0], ["2020-03-17", 0], ["2020-03-18", 0], ["2020-03-19", 0], ["2020-03-20", 0], ["2020-03-21", 0], ["2020-03-22", 0], ["2020-03-23", 0], ["2020-03-24", 0], ["2020-03-25", 0], ["2020-03-26", 0], ["2020-03-27", 0], ["2020-03-28", 0], ["2020-03-29", 0], ["2020-03-30", 0], ["2020-03-31", 0], ["2020-04-01", 0], ["2020-04-02", 0], ["2020-04-03", 0], ["2020-04-04", 0], ["2020-04-05", 0], ["2020-04-06", 0], ["2020-04-07", 0], ["2020-04-08", 0], ["2020-04-09", 0], ["2020-04-10", 0], ["2020-04-11", 0], ["2020-04-12", 0], ["2020-04-13", 0], ["2020-04-14", 0], ["2020-04-15", 0], ["2020-04-16", 0], ["2020-04-17", 0], ["2020-04-18", 0], ["2020-04-19", 0], ["2020-04-20", 1], ["2020-04-21", 0]]
         }]
 
     };

diff --git a/index.html b/index.html
@@ -385,7 +385,7 @@
 
 <script>
     // 每天切换 banner 图.  Switch banner image every day.
-    $('.bg-cover').css('background-image', 'url(https://cdn.jsdelivr.net/qh/K-422/K-422.github.io/medias/banner/1.jpg)');
+    $('.bg-cover').css('background-image', 'url(https://cdn.jsdelivr.net/qh/K-422/K-422.github.io/medias/banner/2.jpg)');
 </script>
 
 
